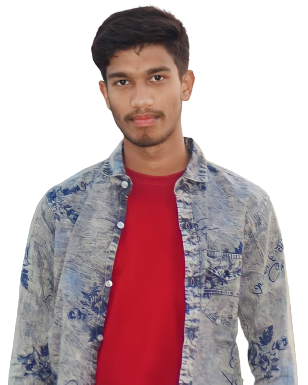
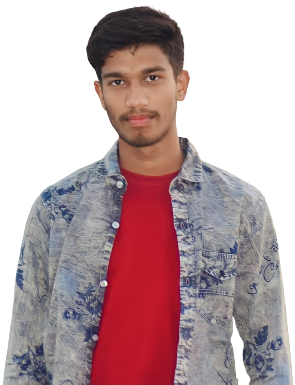
fix container and hero sectin home page

diff --git a/Client/src/app/(mainLayout)/(home)/Hero.tsx b/Client/src/app/(mainLayout)/(home)/Hero.tsx
@@ -1,54 +1,55 @@
 "use client"
 import orangeDot from '../../../../public/images/orangeDot.png'
+import homeNannerShape from '../../../../public/images/homeNannerShape.png'
 import Image from 'next/image'
 import fardinAhmed from '../../../../public/images/fardin-ahmed.png'
 import { TypeAnimation } from 'react-type-animation'
 import ResumiDownload from './ResumiDownload'
+import Container from '@/components/shared/Container'
 const HomePageHero = () => {
     return (
         <div className='bg-background'>
-            <div className='container mx-auto px-4'>
-                <div className='grid grid-cols-1 md:grid-cols-5 items-center justify-between pt-16 gap-4'>
-                    <div className='col-span-3'>
+            <Container>
+                <div className='flex flex-col-reverse lg:flex-row items-end lg:items-center justify-between pt-10 md:pt-16 gap-16'>
+                    <div className='flex-1 pb-0 sm:pb-6'>
                         <div className='flex gap-3 items-center'>
                             <Image alt="Who's me" src={orangeDot} width={20} height={50} />
                             <span className=' text-base font-normal text-black_secondary'>I am Mearn-stack Web Developer</span>
                         </div>
                         <div className='flex flex-col gap-4 mt-3'>
-                            <h1 className='md:text-5xl xl:text-[84px] font-semibold text-black 
-                            leading-[1.1em]'>Creative Design  & Web Development  <TypeAnimation
-                                    sequence={[
-                                        'Services',
-                                        1000,
-                                        'Solutions',
-                                        1000,
-                                        'Expertise',
-                                        2000,
-                                        'Innovation',
-                                        3000,
-                                        'Excellence',
-                                        4000,
-                                    ]}
-                                    wrapper="span"
-                                    className='text-primery inline-block'
-                                    cursor={true}
-                                    repeat={Infinity}
-                                /></h1>
+                            <h1 className='text-4xl sm:text-5xl md:text-4xl xl:text-[75px] font-semibold leading-[1.2em] md:leading-[1.1em] inline'> Creative Design  & Web Development <TypeAnimation
+                                sequence={[
+                                    'Services',
+                                    1000,
+                                    'Solutions',
+                                    1000,
+                                    'Expertise',
+                                    2000,
+                                    'Innovation',
+                                    3000,
+                                    'Excellence',
+                                    4000,
+                                ]}
+                                wrapper="span"
+                                className='text-primery inline-block'
+                                cursor={true}
+                                repeat={Infinity}/>
+                            </h1>
 
-                            <p className='font-normal text-base text-black_secondary mt-3'>
+                            <p className='font-normal text-lg text-black_secondary mt-3'>
                                 I m Fardin Ahmed, a skilled MERN Stack Developer and WordPress Expert.
                                 With over 3 years of experience, I specialize in creating eCommerce sites, CMS solutions, and custom web development. I dedicate 12-14 hours a day to delivering high-quality, user-friendly websites for businesses and startups globally. Let’s create something amazing together! 🚀</p>
-                                <div className='mt-8'>
-                                <ResumiDownload/>
-                                </div>
-
+                            <div className='mt-8'>
+                                <ResumiDownload />
+                            </div>
                         </div>
                     </div>
-                    <div className='col-span-2 place-items-end align-bottom'>
-                        <Image alt="Fardin Ahmed" className='text-right' src={fardinAhmed} width={550} height={500} />
+                    <div className='max-w-[500px] mx-auto lg:place-items-end align-middle lg:align-bottom relative'>
+                        <Image alt="bg move " className='text-right animate-bg-move-3d absolute sm:top-10 sm:right-12 z-0 ' src={homeNannerShape} width={400} height={500} />
+                        <Image alt="Fardin Ahmed" className='text-right z-10 relative' src={fardinAhmed} width={500} height={500} />
                     </div>
                 </div>
-            </div>
+            </Container>
         </div>
     )
 }

diff --git a/Client/src/components/shared/Navbar.tsx b/Client/src/components/shared/Navbar.tsx
@@ -5,6 +5,7 @@ import Image from "next/image";
 import { usePathname } from "next/navigation";
 import HoverLink from "./HoverLink";
 import MobileMenu from "../MobileMenu";
+import Container from "./Container";
 export const menuItems = [
   {
     label: 'Home',
@@ -34,39 +35,40 @@ export const menuItems = [
 const Navbar = () => {
   const pathname = usePathname();
   return (
-    <div className="container mx-auto flex items-center justify-between
+    <Container>
+      <div className="flex items-center justify-between
     bg-white border-b py-4">
-      <div className="flex items-center">
-        <Link
-          href="/"
-          className="ml-4 text-xl font-semibold text-gray-800 hover:text-gray-600"
-        >
-          <Image src={logo} width={200} height={150} alt="Fardin's Logo" />
-        </Link>
-      </div>
-
-      <div className="hidden lg:flex">
-        <ul className="flex space-x-6 text-gray-800">
-          {
-            menuItems?.map((item, index) => <li key={index} className="hover:text-gray-600">
-              <Link className={`${pathname === item.link
-                ? "text-primery font-medium text-xl"
-                : "text-gray-700 hover:text-primery text-xl"
-                }`}
-                href={`${item.link}`}> {item.label} </Link>
-            </li>)
-          }
-        </ul>
-      </div>
-
-      <div className="flex items-center">
-        <div className="hidden lg:block">
-        <HoverLink label="Contact Us" link="/contact"/>
+        <div className="flex items-center">
+          <Link
+            href="/"
+            className=" text-xl font-semibold text-gray-800 hover:text-gray-600"
+          >
+            <Image src={logo} width={200} height={150} alt="Fardin's Logo" />
+          </Link>
         </div>
 
-        <MobileMenu/>
+        <div className="hidden lg:flex">
+          <ul className="flex space-x-6 text-gray-800">
+            {
+              menuItems?.map((item, index) => <li key={index} className="hover:text-gray-600">
+                <Link className={`${pathname === item.link
+                  ? "text-primery font-medium text-xl"
+                  : "text-gray-700 hover:text-primery text-xl"
+                  }`}
+                  href={`${item.link}`}> {item.label} </Link>
+              </li>)
+            }
+          </ul>
+        </div>
+        <div className="flex items-center">
+          <div className="hidden lg:block">
+            <HoverLink label="Contact Us" link="/contact" />
+          </div>
+          <MobileMenu />
+        </div>
       </div>
-    </div>
+    </Container>
+
   );
 };
 

diff --git a/Client/src/components/shared/Footer.tsx b/Client/src/components/shared/Footer.tsx
@@ -7,6 +7,7 @@ import { TbBrandFiverr } from 'react-icons/tb'
 import { RiLinkedinFill } from 'react-icons/ri'
 import { AiOutlineGithub } from 'react-icons/ai'
 import { PiMapPinFill } from 'react-icons/pi'
+import Container from './Container'
 const Footer = () => {
   const exporeLink = [
     {
@@ -27,9 +28,9 @@ const Footer = () => {
     },
   ]
   return (
-    <div className='bg-black'>
-      <div className='container mx-auto py-10 lg:py-20'>
-        <div className='grid grid-cols-1 sm:grid-cols-3 md:grid-cols-3 lg:grid-cols-3 xl:grid-cols-6 gap-10 lg:gap-32 justify-between px-10'>
+    <div className='bg-black py-10 lg:py-20'>
+      <Container>
+      <div className='grid grid-cols-1 sm:grid-cols-3 md:grid-cols-3 lg:grid-cols-3 xl:grid-cols-6 gap-10 lg:gap-32 justify-between'>
           {/* First items */}
           <div className='flex flex-col gap-5 sm:col-span-6 xl:col-span-2'>
             <Image alt="Fardin's Logo" src={logo} width={300} height={200} />
@@ -84,6 +85,9 @@ const Footer = () => {
             </div>
           </div>
         </div>
+      </Container>
+      <div className='container mx-auto '>
+        
       </div>
     </div>
   )

diff --git a/Client/tailwind.config.ts b/Client/tailwind.config.ts
@@ -8,6 +8,24 @@ export default {
   ],
   theme: {
     extend: {
+      keyframes: {
+        BgMove3D: {
+          '0%': { transform: 'translate3d(0px, 0px, 0px)' },
+          "50%": { transform: "translate3d(-30px, -30px, -30px)" },
+          "100%": { transform: "translate3d(0px, 0px, 0px)" },
+        }
+      },
+      animation: {
+        'bg-move-3d': 'BgMove3D 2s infinite',
+      },
+      container: {
+        screens: {
+          sm: "100%", 
+          md: "100%", 
+          lg: "1024px", 
+          xl: "1280px",
+        },
+      },
       colors: {
         primery: "#FF8000",
         secondary: "#606060",

diff --git a/Client/src/app/globals.css b/Client/src/app/globals.css
@@ -7,3 +7,24 @@
 body {
   font-family: "Jost", serif;
 };
+
+/* Animations */
+
+@keyframes BgMove3D {
+  0% {
+    transform: translate3d(0px, 0px, 0px);
+}
+50% {
+    transform: translate3d(-30px, -30px, -30px);
+}
+100% {
+    transform: translate3d(0px, 0px, 0px);
+}
+}
+
+.bg-move-3d {
+  animation-name: BgMove3D;
+  animation-duration: 2s;
+  animation-timing-function: linear;
+  animation-iteration-count: infinite;
+}

diff --git a/Client/src/components/shared/Container.tsx b/Client/src/components/shared/Container.tsx
@@ -1,0 +1,11 @@
+const Container = ({
+    children,
+  }: Readonly<{
+    children: React.ReactNode;
+  }>) => {
+  return (
+    <div className='container mx-auto px-8'> { children } </div>
+  )
+}
+
+export default Container
